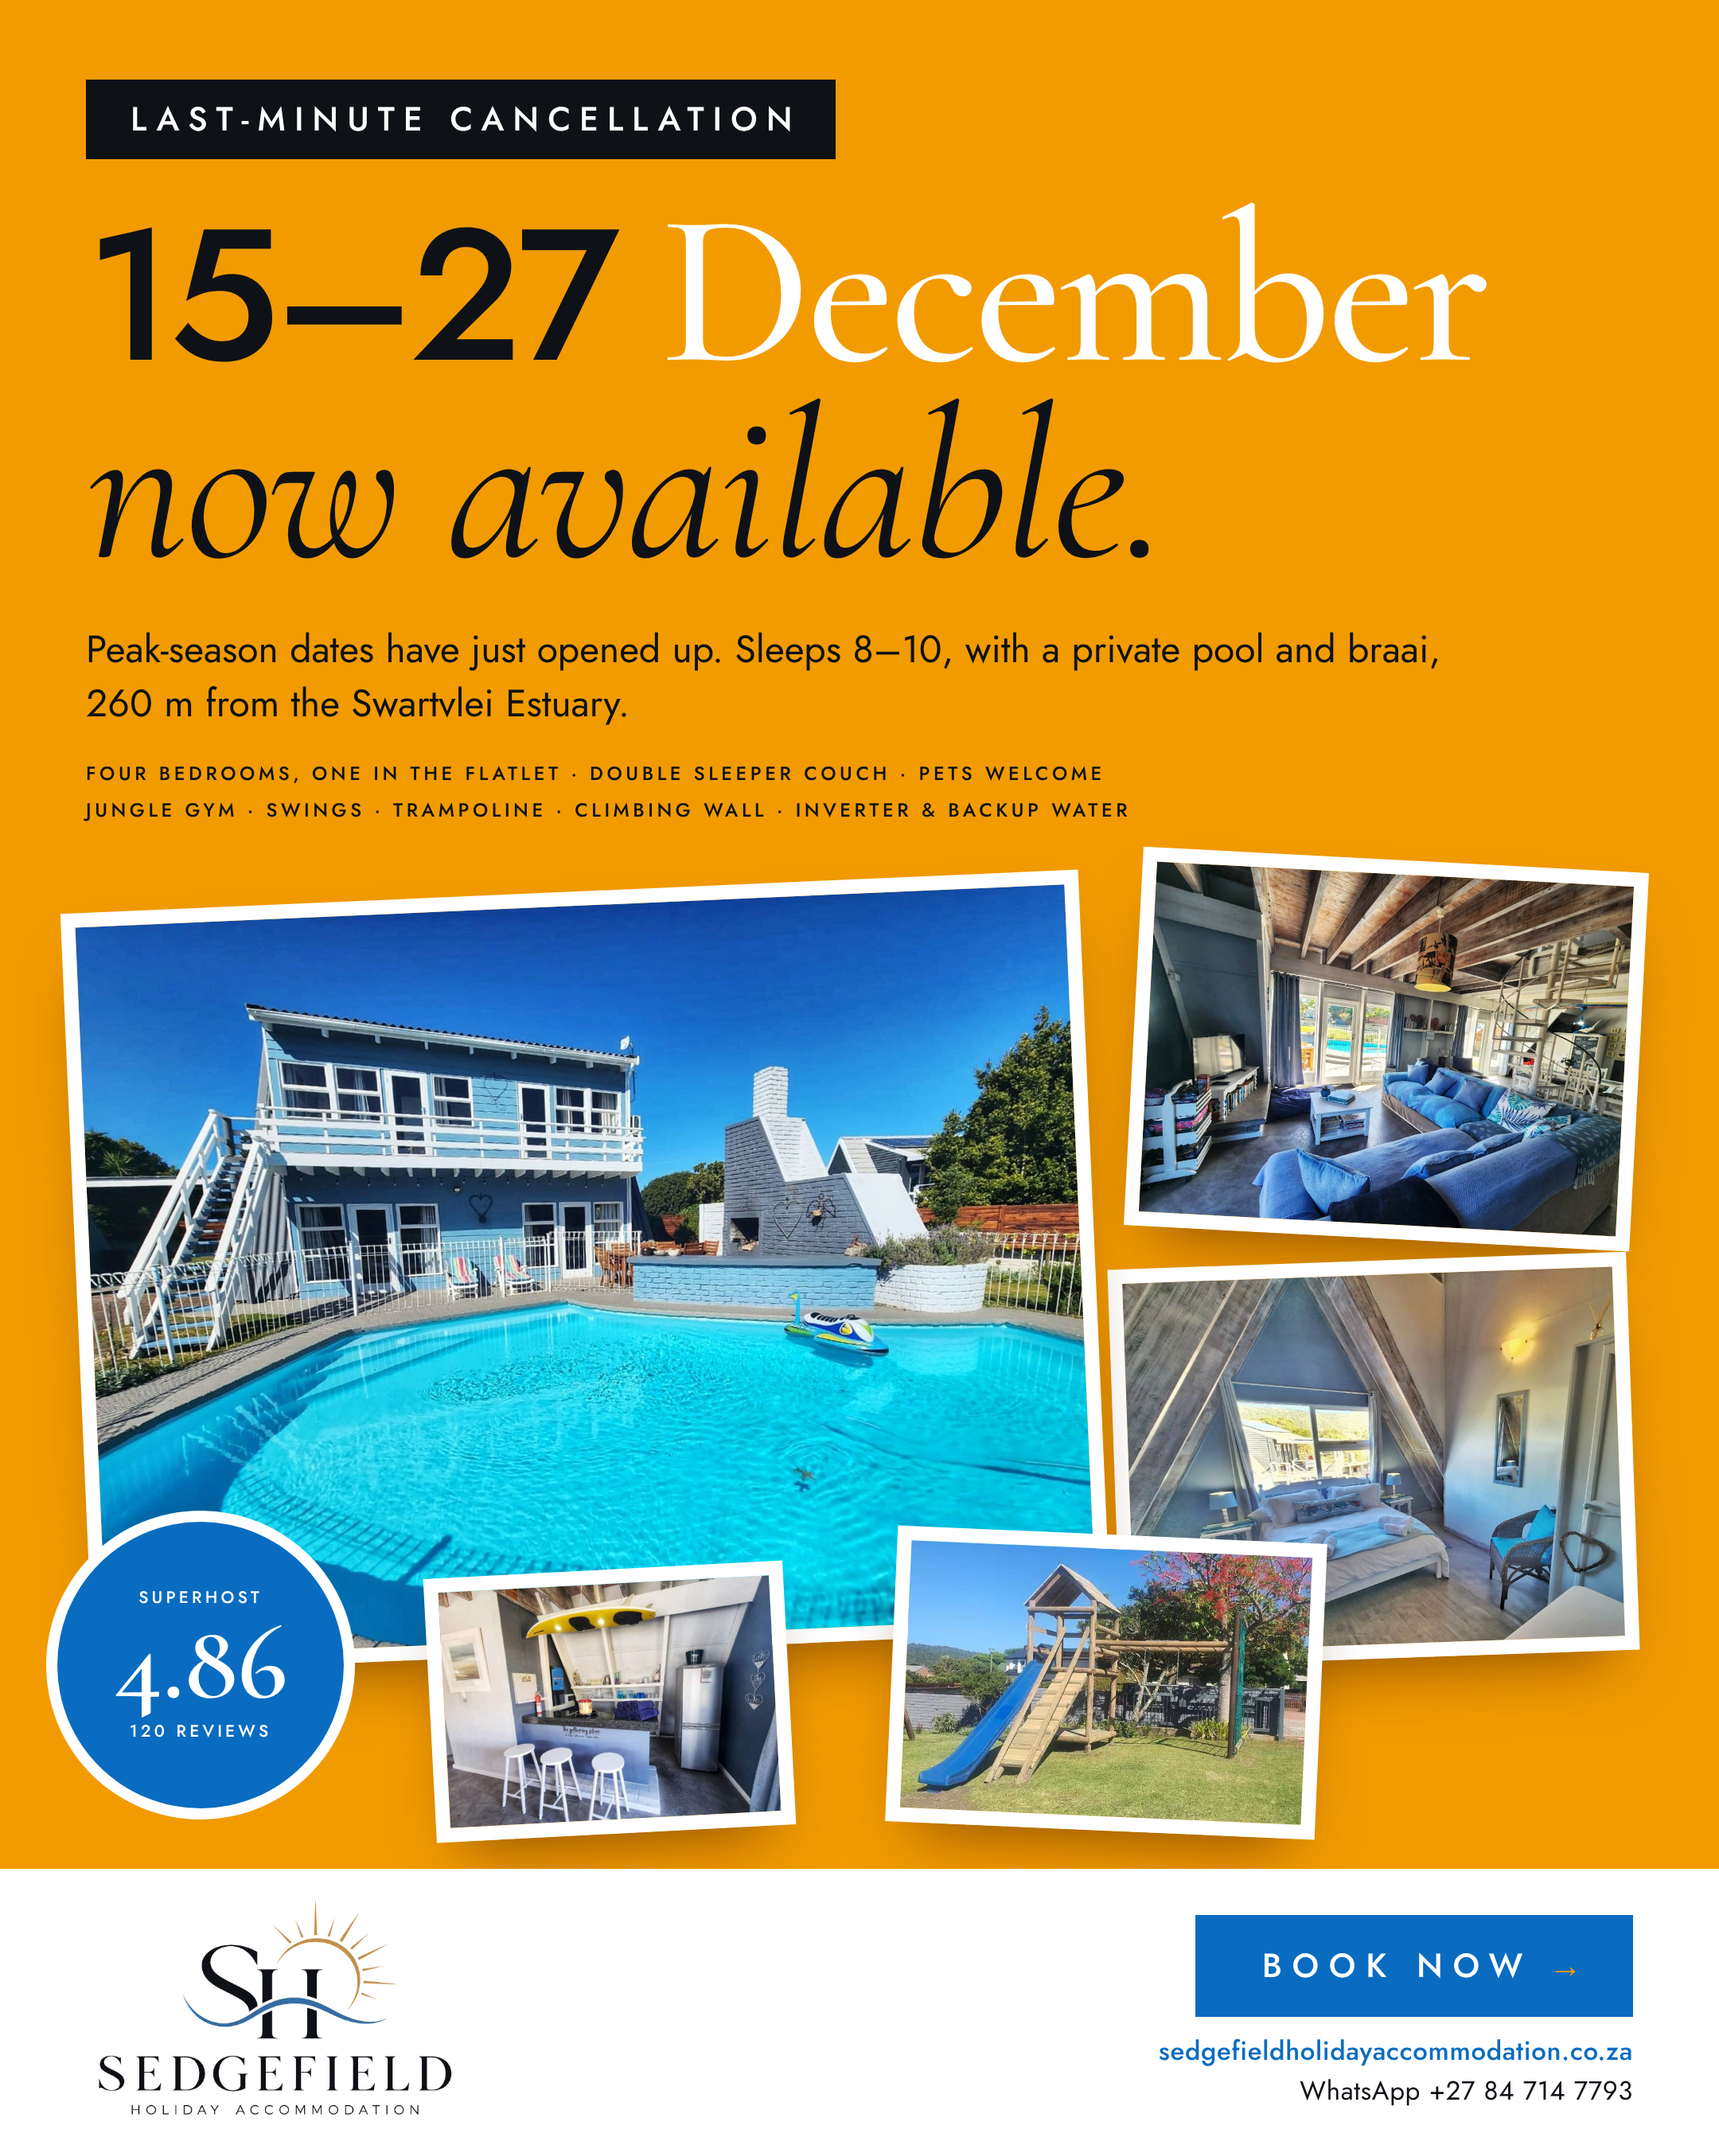
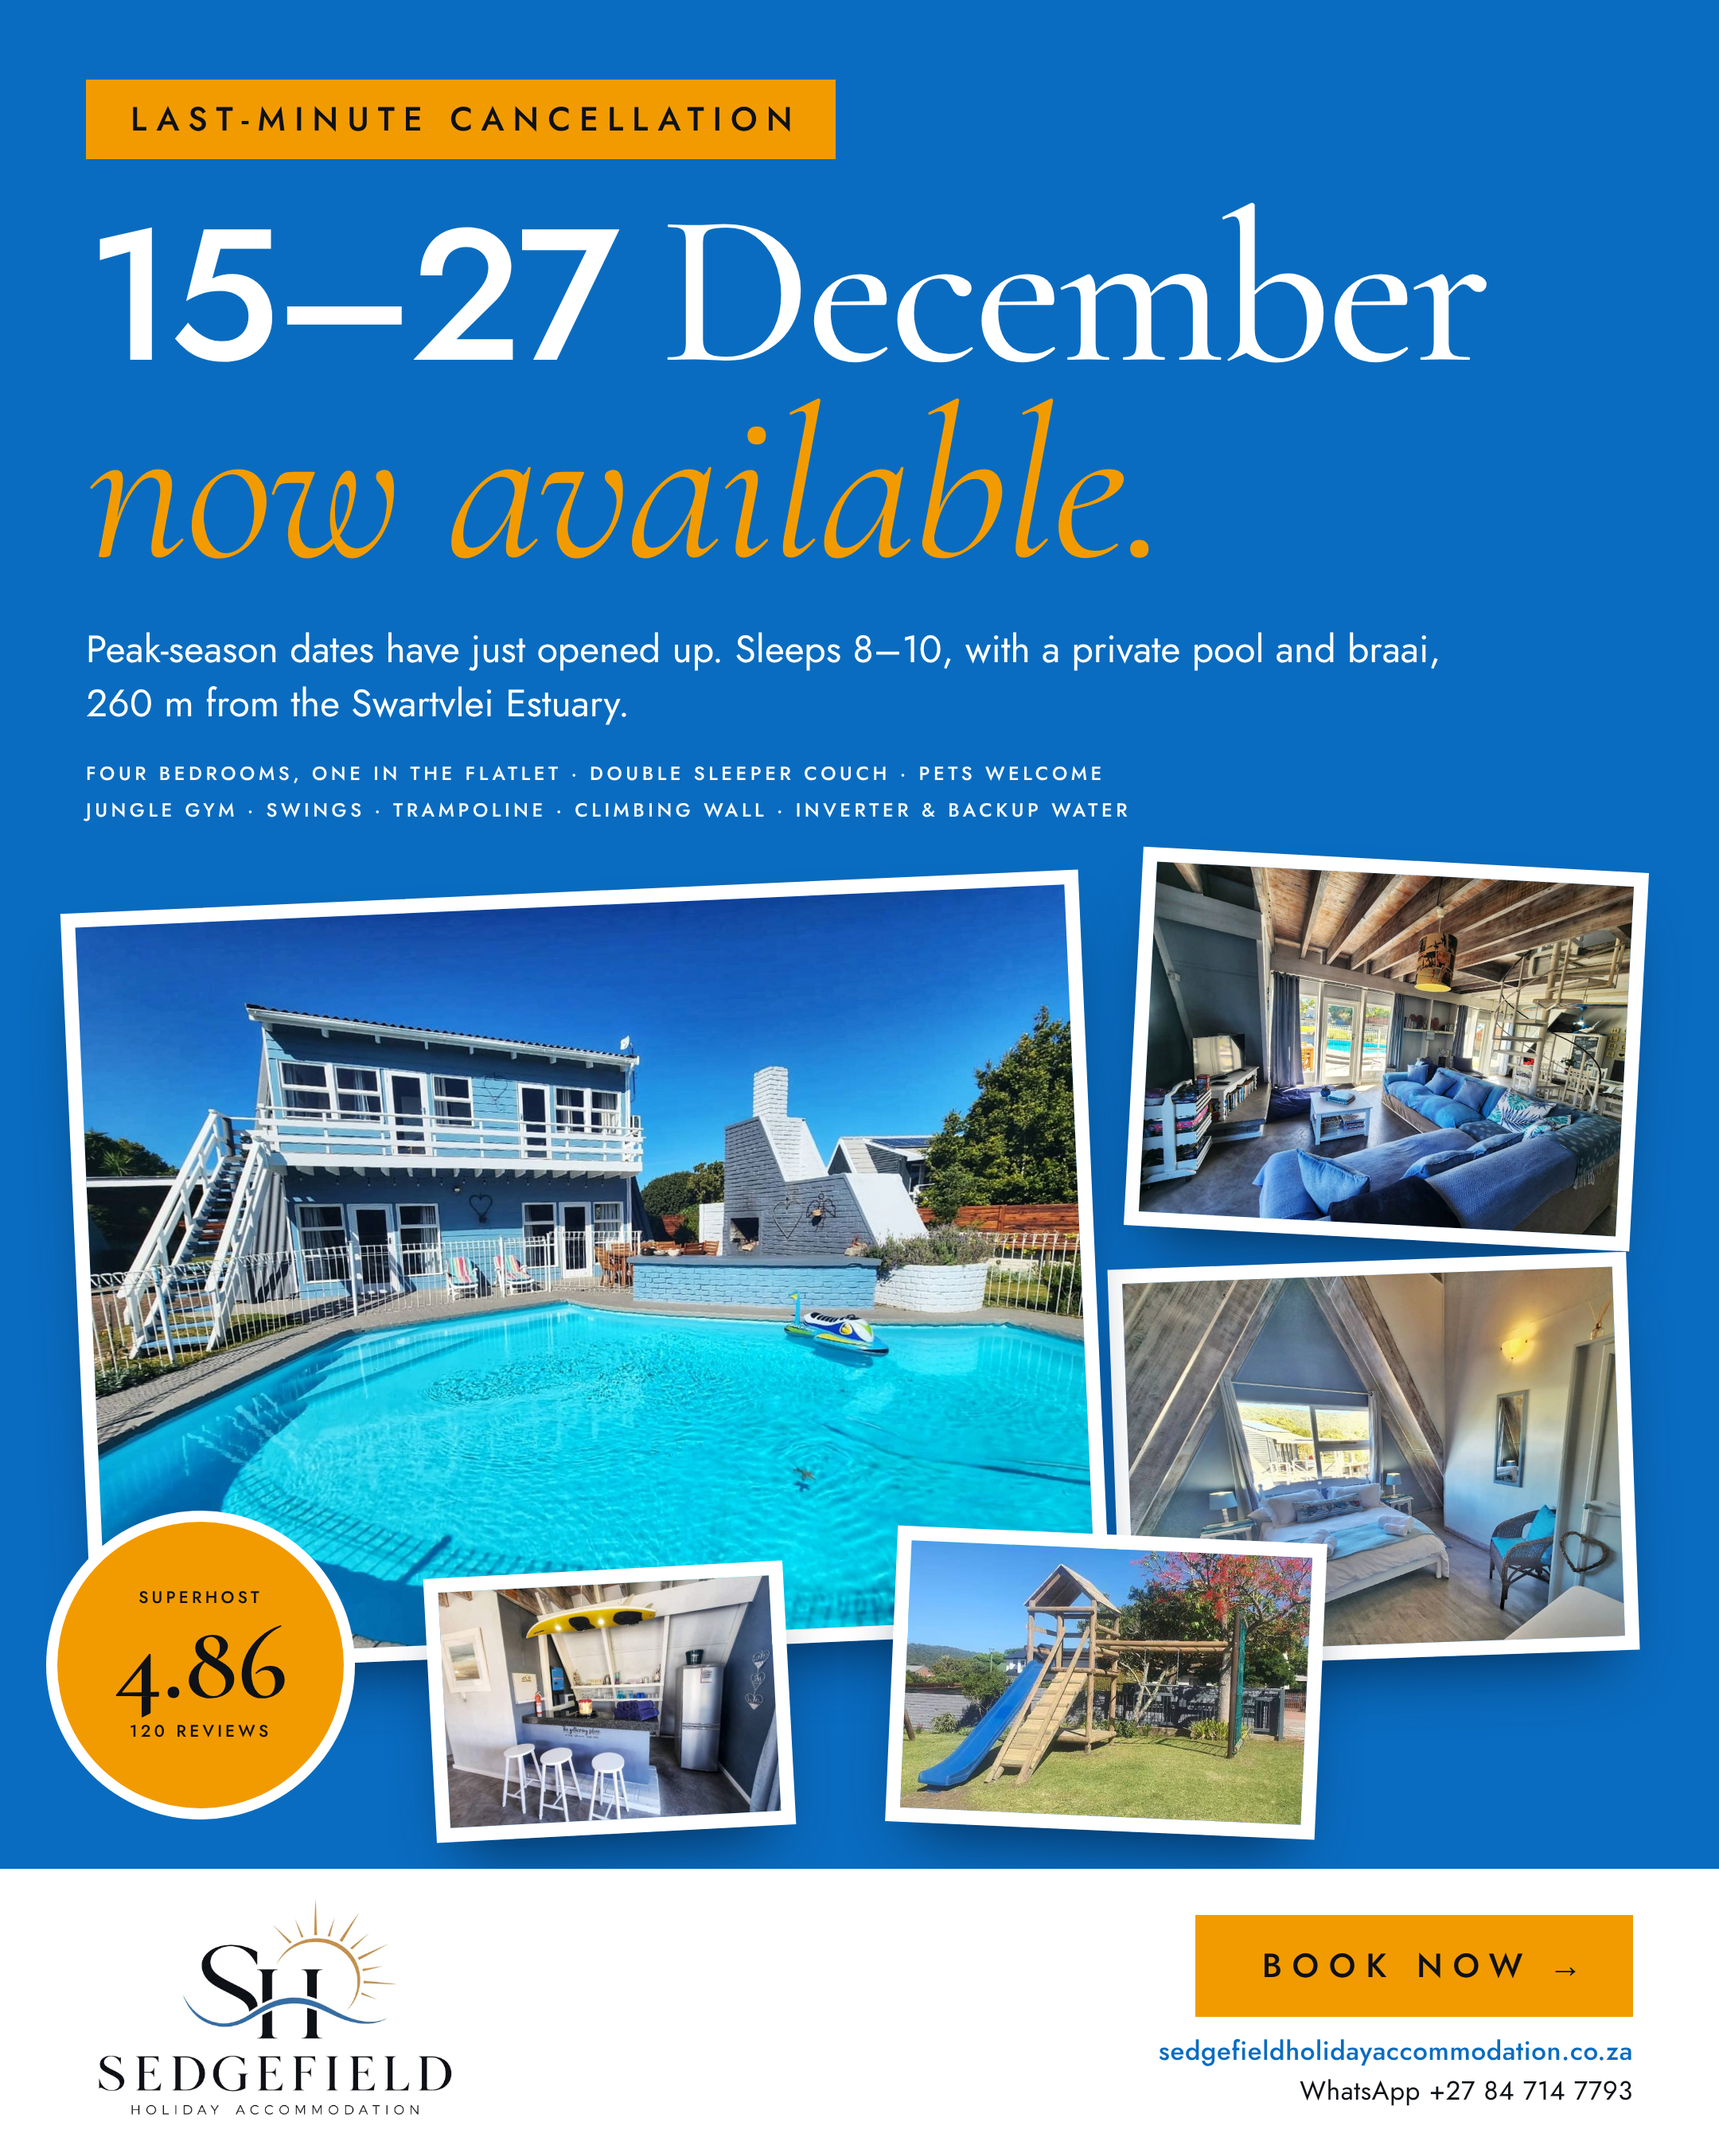
Third advert layout: swap to Ocean Blue ground with Sun Orange accents
Claude-Session: https://claude.ai/code/session_018nYbKAdgBCf6cy6bucxAdr

diff --git a/adverts/book-now/advert-v3.html b/adverts/book-now/advert-v3.html
@@ -10,32 +10,32 @@
 :root{--ink:#0E1116;--blue:#0A6CC0;--orange:#F29B00}
 *{box-sizing:border-box;margin:0;padding:0}
 body{background:#fff;color:var(--ink);font-family:Jost,Arial,sans-serif}
-.ad{position:relative;width:1080px;height:1350px;background:var(--orange);overflow:hidden}
+.ad{position:relative;width:1080px;height:1350px;background:var(--blue);overflow:hidden}
 .label{font:500 14px/1 Jost;letter-spacing:.24em;text-transform:uppercase}
 
-.top{position:absolute;left:54px;top:50px}
-.tag{display:inline-block;background:var(--ink);color:#fff;font-size:21px;letter-spacing:.26em;padding:15px 22px 14px 28px}
+.top{position:absolute;left:54px;top:50px;color:#fff}
+.tag{display:inline-block;background:var(--orange);color:var(--ink);font-size:21px;letter-spacing:.26em;padding:15px 22px 14px 28px}
 h1{font:500 136px/.9 Cormorant,Georgia,serif;letter-spacing:-.02em;white-space:nowrap;margin-top:22px;color:#fff}
-h1 span{font:500 .86em/1 Jost,Arial,sans-serif;letter-spacing:-.03em;color:var(--ink)}
-h1 em{font-style:italic;font-weight:400;color:var(--ink);letter-spacing:-.01em}
+h1 span{font:500 .86em/1 Jost,Arial,sans-serif;letter-spacing:-.03em}
+h1 em{font-style:italic;font-weight:400;color:var(--orange);letter-spacing:-.01em}
 .intro{font:400 24px/1.4 Jost;margin-top:24px;width:900px}
 .feat{margin-top:16px;font-size:12px;letter-spacing:.19em;line-height:1.95;white-space:nowrap}
 
-.ph{position:absolute;border:9px solid #fff;background:center/cover;box-shadow:0 22px 40px -18px #5a2d00b0}
+.ph{position:absolute;border:9px solid #fff;background:center/cover;box-shadow:0 22px 40px -18px #021c3ad0}
 .p1{left:48px;top:560px;width:640px;height:478px;transform:rotate(-2.5deg);background-image:url(assets/pool.jpg)}
 .p2{left:712px;top:540px;width:318px;height:238px;transform:rotate(3deg);background-image:url(assets/living.jpg);background-position:60% 60%}
 .p3{left:700px;top:792px;width:326px;height:250px;transform:rotate(-2deg);background-image:url(assets/bedroom2.jpg);background-position:35% 55%}
 .p4{left:560px;top:964px;width:270px;height:186px;transform:rotate(2.5deg);background-image:url(assets/junglegym.jpg);background-position:25% 50%}
 .p5{left:270px;top:986px;width:226px;height:166px;transform:rotate(-3deg);background-image:url(assets/bar.jpg);background-position:35% 45%}
-.sun{position:absolute;left:36px;top:956px;width:180px;height:180px;border-radius:50%;background:var(--blue);color:#fff;display:flex;flex-direction:column;align-items:center;justify-content:center;box-shadow:0 0 0 7px #fff}
+.sun{position:absolute;left:36px;top:956px;width:180px;height:180px;border-radius:50%;background:var(--orange);color:var(--ink);display:flex;flex-direction:column;align-items:center;justify-content:center;box-shadow:0 0 0 7px #fff}
 .sun .label{font-size:10.5px;letter-spacing:.2em}
 .sun strong{font:600 68px/.9 Cormorant,Georgia,serif;margin:5px 0 7px}
 
 .foot{position:absolute;left:0;right:0;bottom:0;height:176px;background:#fff;padding:0 54px 0 40px;display:flex;justify-content:space-between;align-items:center}
 .logo{height:146px;mix-blend-mode:multiply}
 .cta{text-align:right}
-.btn{display:inline-block;background:var(--blue);color:#fff;font:500 21px/1 Jost;letter-spacing:.3em;text-transform:uppercase;padding:22px 32px 21px 42px}
-.btn b{font-weight:500;margin-left:10px;letter-spacing:0;color:var(--orange)}
+.btn{display:inline-block;background:var(--orange);color:var(--ink);font:500 21px/1 Jost;letter-spacing:.3em;text-transform:uppercase;padding:22px 32px 21px 42px}
+.btn b{font-weight:500;margin-left:10px;letter-spacing:0}
 .cta p{font:500 16.5px/1 Jost;letter-spacing:.02em;margin-top:13px;color:var(--blue)}
 .cta p + p{font-weight:400;color:var(--ink);margin-top:8px}
 </style></head>
